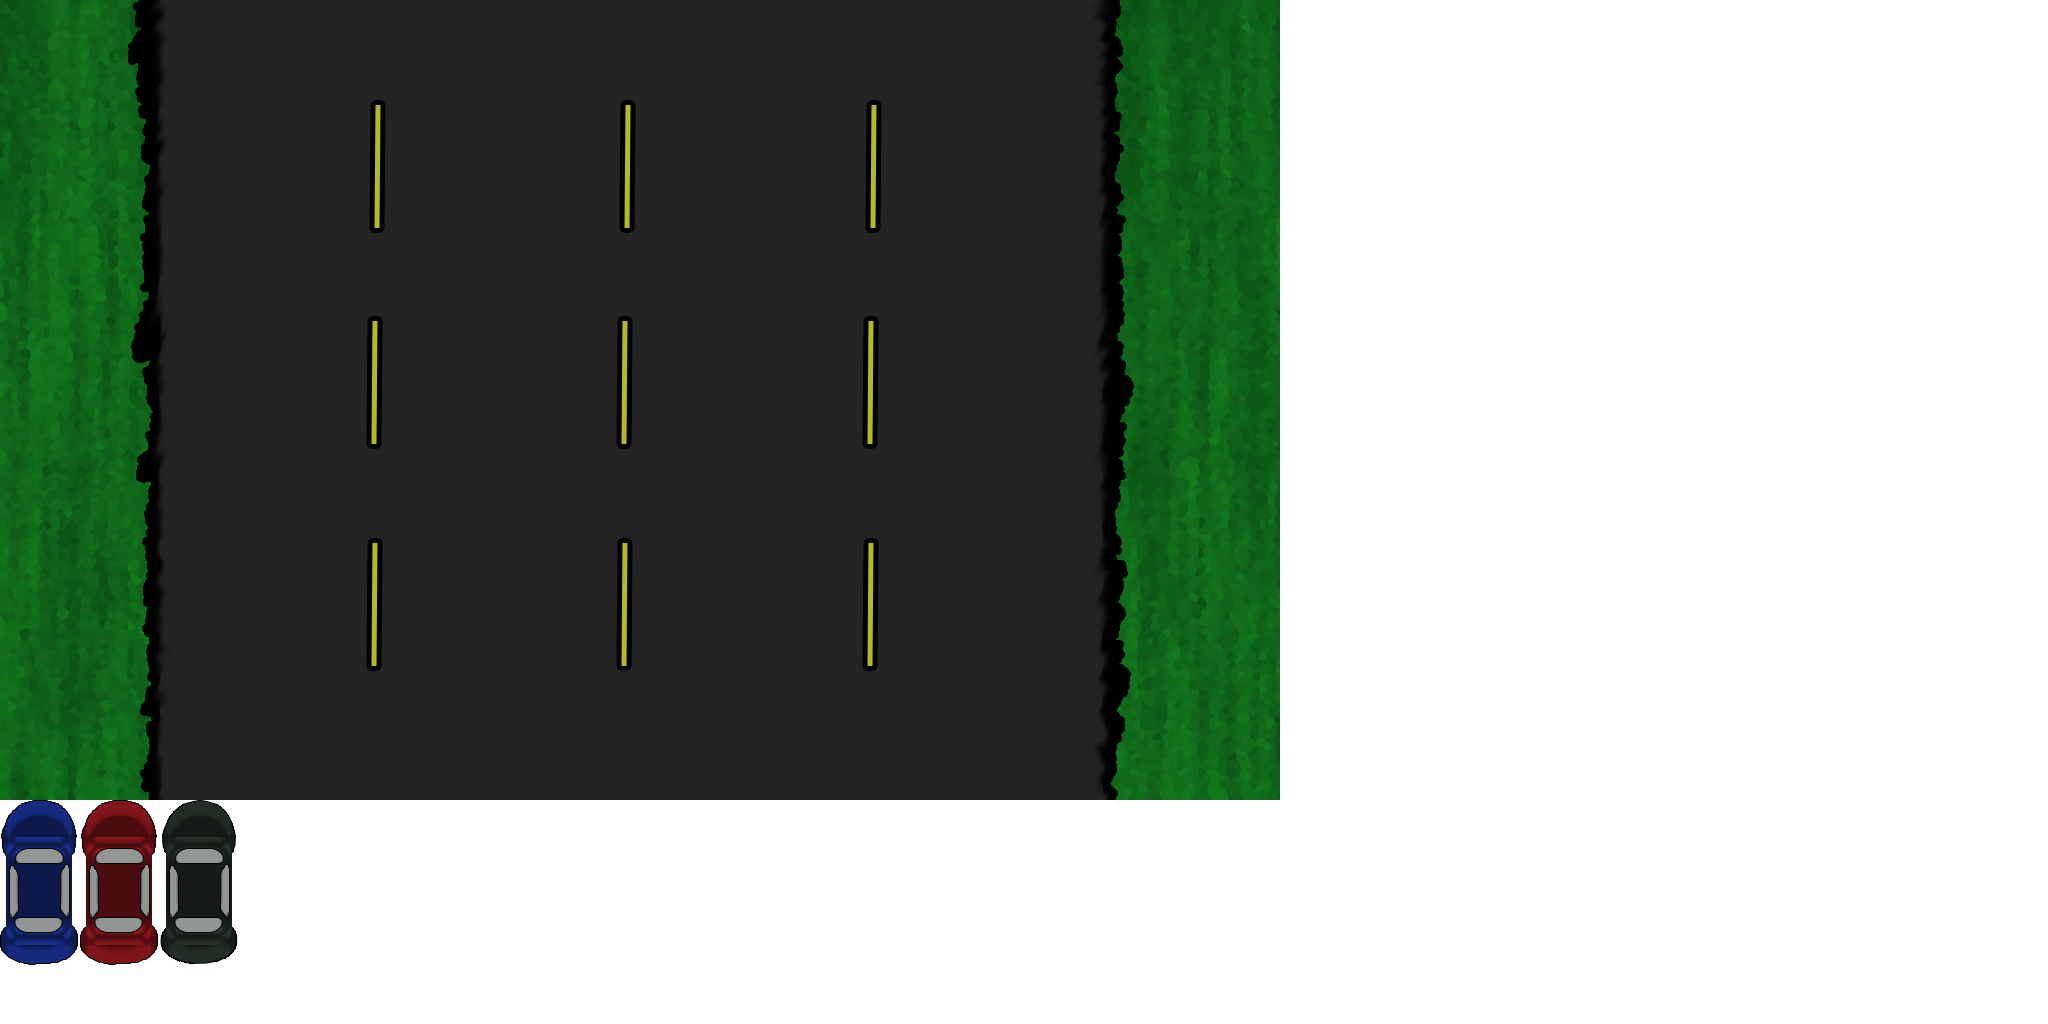
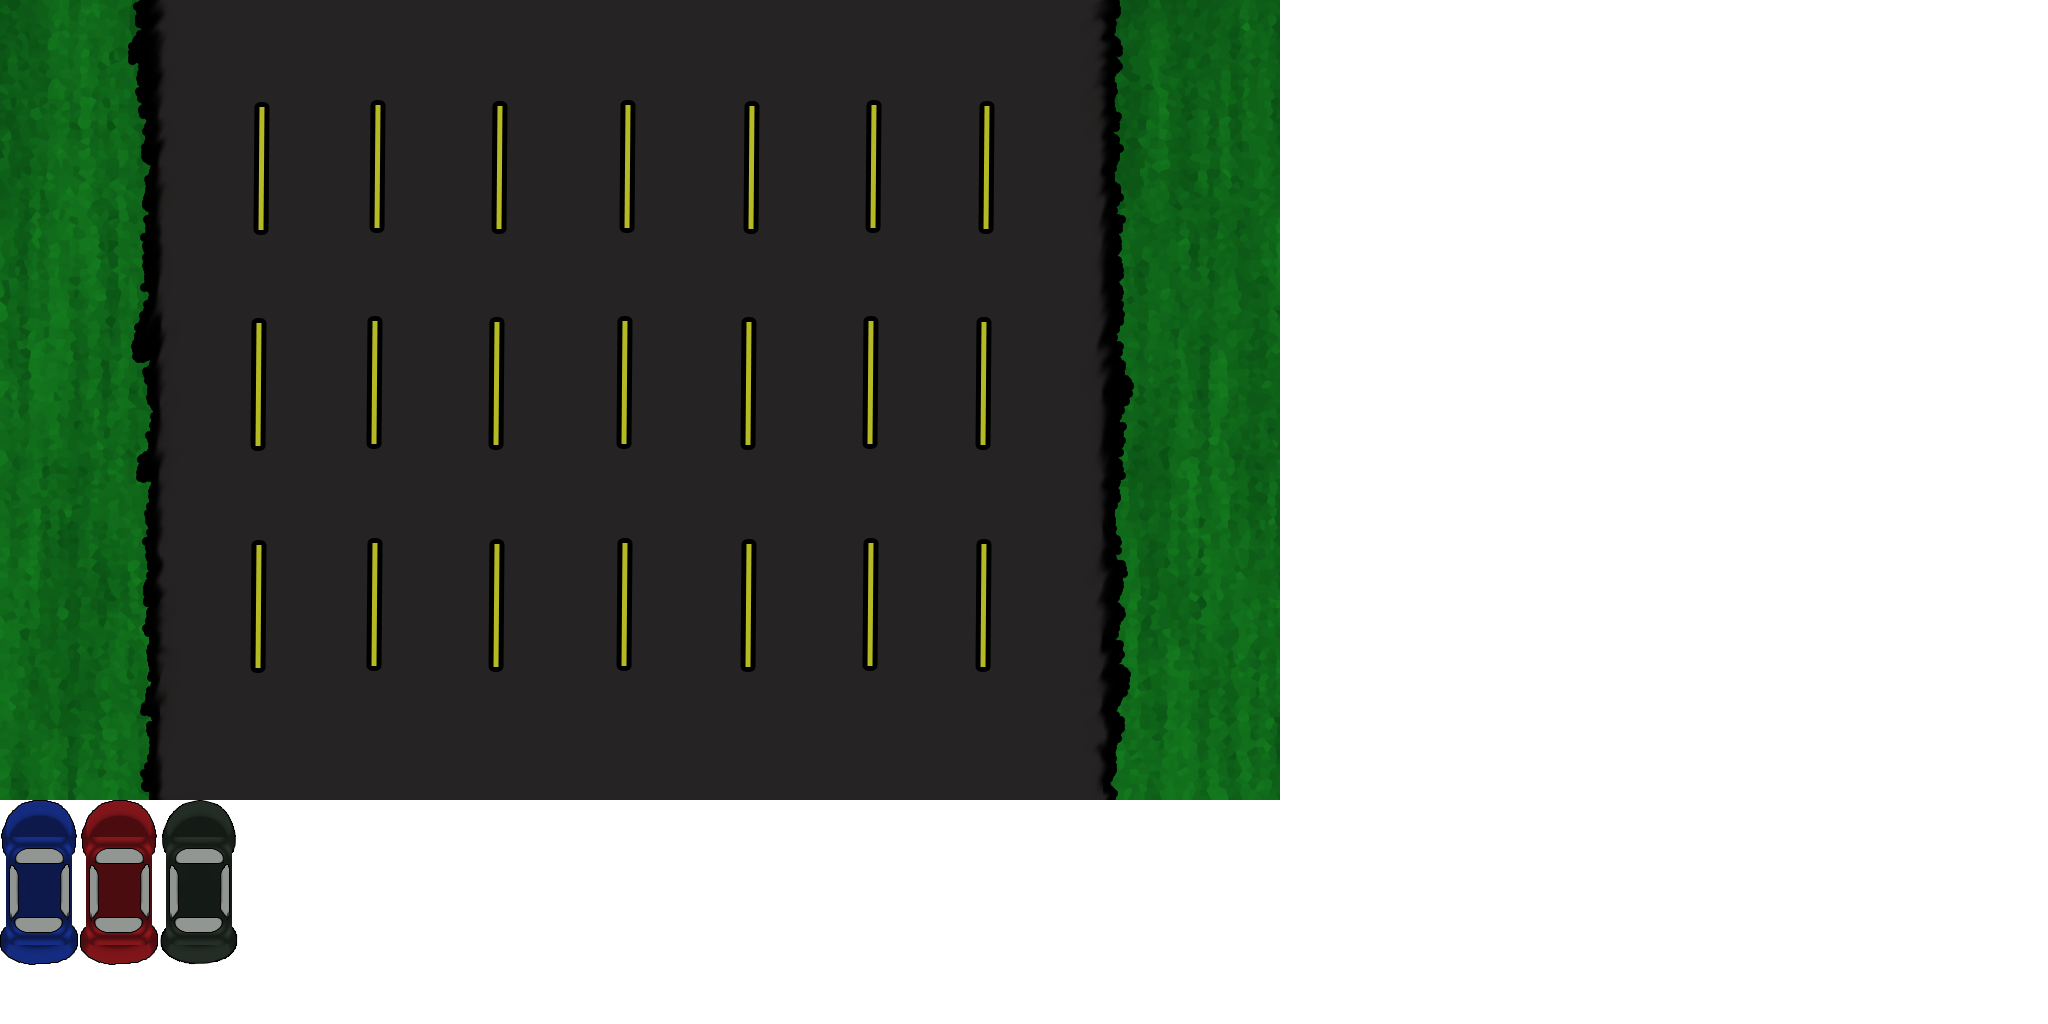
Changed assets and repositioned lanes.

diff --git a/vergegl/src/com/dbz/verge/microgames/TrafficMicroGame.java b/vergegl/src/com/dbz/verge/microgames/TrafficMicroGame.java
@@ -30,13 +30,17 @@ public class TrafficMicroGame extends MicroGame {
 	private int carStartPosition = 480;
 
 	// Lane variables
-	private float laneOne = 225;
-	private float laneTwo = 465;
-	private float laneThree = 700;
-	private float laneFour = 975;
+	private float laneOne = 150;
+	private float laneTwo = 280;
+	private float laneThree = 400;
+	private float laneFour = 523;
+	private float laneFive = 650;
+	private float laneSix = 777;
+	private float laneSeven = 892;
+	private float laneEight = 1007;
+	
 	private float lanePosition[] = { laneOne, laneTwo, laneThree, laneFour,
-			laneOne + 80, laneTwo + 80, laneThree + 80, laneFour + 80,
-			laneOne - 80, laneTwo - 80, laneThree - 80, laneFour - 80 };
+			laneFive, laneSix, laneSeven, laneEight};
 
 	// Variable needed for obstacle movement.
 	private int obstacleOneSpeedY = 12;
